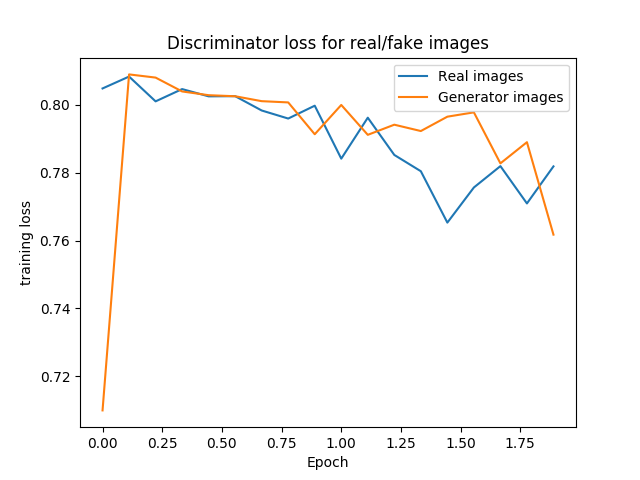
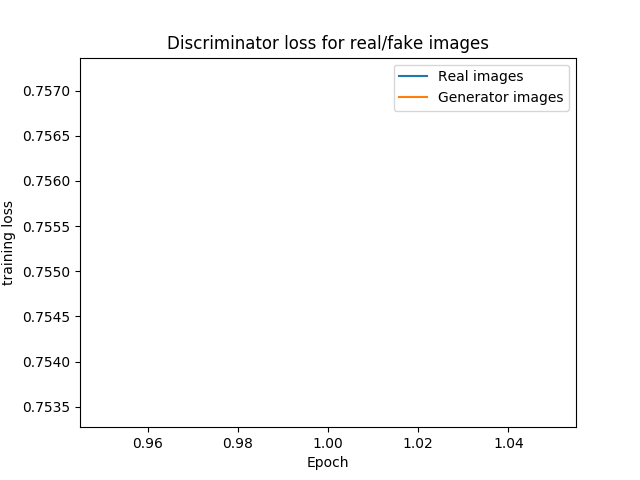
New run

diff --git a/log/dreyeve/debug/configuration.py b/log/dreyeve/debug/configuration.py
@@ -1,8 +1,8 @@
-# Training started at: 2018-12-02 10:30:43.464924
-# Training ended at: 2018-12-02 10:30:43.464924
-# Training duration: 0h 0m 31.25s
+# Training started at: 2018-12-09 17:55:16.329766
+# Training ended at: 2018-12-09 17:55:16.329766
+# Training duration: 0h 3m 45.15s
 # Training epochs: 2
-# Seconds per epoch: 12.504
+# Seconds per epoch: 82.541
 from pathlib import Path
 import datetime
 class Configuration(object):
@@ -43,11 +43,11 @@ class Configuration(object):
             self.hardcoded_architecture = None
             self.ae_n_conv_modules = 6 # number of conv. modules
             self.ae_n_conv_layers_per_module = 1 # number of conv. layers in each module (between each pool layer/dim reduction)
-            self.ae_n_dense_layers = 0 # number of dense layers in
-            self.ae_z_dim = 256
+            self.ae_n_dense_layers = 1 # number of dense layers in
+            self.ae_z_dim = 512
             self.ae_n_dense_units = self.ae_z_dim
             self.ae_filter_size = 4
-            self.ae_stride = 1
+            self.ae_stride = 1 # will be set to ae_pool_size if ae_max_pool is False
             self.ae_max_pool = False
             self.ae_pool_size = 2
             self.ae_first_layer_channels = 16
@@ -60,7 +60,7 @@ class Configuration(object):
             self.d_n_conv_modules = 6 # number of conv. modules
             self.d_n_conv_layers_per_module = 1 # number of conv. layers in each module (between each pool layer/dim reduction)
             self.d_n_dense_layers = 1 # number of dense layers in
-            self.d_z_dim = 256
+            self.d_z_dim = 512
             self.d_n_dense_units = 1
             self.d_filter_size = 4
             self.d_stride = 1
@@ -78,11 +78,12 @@ class Configuration(object):
             self.channels = 3
 
             # Train settings
+            self.data_divider = 1
             self.n_epochs = 100
-            self.n_train = 600
-            self.n_val = 50
-            self.n_test = 1200
-            self.n_test_in = 600
+            self.n_train = 6000//self.data_divider
+            self.n_val = 600//self.data_divider
+            self.n_test = 1200//self.data_divider
+            self.n_test_in = 600 // self.data_divider
             self.out_frac = (self.n_test-self.n_test_in)/self.n_test
             self.batch_size = 64
             self.num_checkpoints = 10
@@ -94,17 +95,17 @@ class Configuration(object):
             self.test_folder = "../weather_detection_data/dreyeve/sunny_highway_countryside_morning_evening_vs_rainy_highway_countryside_morning_evening/test/"
             self.test_in_folder =  self.test_folder + "in/"
             self.test_out_folder =  self.test_folder + "out/"
-        
-        elif self.dataset == "prosivic":
+
+        if self.dataset == "prosivic":
             self.hardcoded_architecture = None
             # Autoencoder architecture
             self.ae_n_conv_modules =  5 # number of conv. modules
             self.ae_n_conv_layers_per_module = 1 # number of conv. layers in each module (between each pool layer/dim reduction)
-            self.ae_n_dense_layers = 0 # number of dense layers in
-            self.ae_z_dim = 256
+            self.ae_n_dense_layers = 1 # number of dense layers in
+            self.ae_z_dim = 512
             self.ae_n_dense_units = self.ae_z_dim
             self.ae_filter_size = 4
-            self.ae_stride = 1
+            self.ae_stride = 1 # will be set to ae_pool_size automatically if ae_max_pool is False
             self.ae_max_pool = False
             self.ae_pool_size = 2
             self.ae_first_layer_channels = 16
@@ -117,7 +118,7 @@ class Configuration(object):
             self.d_n_conv_modules =  4 # number of conv. modules
             self.d_n_conv_layers_per_module = 1 # number of conv. layers in each module (between each pool layer/dim reduction)
             self.d_n_dense_layers = 1 # number of dense layers in
-            self.d_z_dim = 256
+            self.d_z_dim = 512
             self.d_n_dense_units = 1
             self.d_filter_size = 4
             self.d_stride = 1
@@ -131,19 +132,19 @@ class Configuration(object):
 
             # Train settings
             self.n_epochs = 1
-            self.n_train = 7000
-            self.n_val = 1400
-            self.n_test = 1000
-            self.n_test_in = 500
+            self.data_div = 1
+            self.n_train = 7000 // self.data_div
+            self.n_val = 1400 // self.data_div
+            self.n_test = 1000 // self.data_div
+            self.n_test_in = 500 // self.data_div
             self.out_frac = (self.n_test-self.n_test_in)/self.n_test
             self.batch_size = 64
-            self.num_checkpoints  = 25
+            self.num_checkpoints  = 10
 
             # Data format
             self.image_height = 256
             self.image_width = 256
             self.channels = 3
-            self.batch_size = 64
 
             # Data sources
             self.img_folder =   "../weather_detection_data/prosivic/"
@@ -175,9 +176,3 @@ class Configuration(object):
         self.model_dir = self.log_dir+'models/'
         self.train_dir = self.log_dir+'train/'
         self.test_dir = self.log_dir+'test/'
-Num outliers: 600
-Num inliers: 600
-################################################################
-# Test started at: 2018-12-02 10:31:17.525039
-#AUROC D()-score:	0.83838
-#AUPRC D()-score:	0.78547

diff --git a/models.py b/models.py
@@ -433,13 +433,11 @@ class ALOCC_Model():
 
         checkpoint_interval = max(epochs // self.cfg.num_checkpoints,1)
         epochs_duration = 0
+        batch_idxs = len(self.data) // batch_size
+
         for epoch in range(epochs):
             epoch_start_time = datetime.datetime.now()
             print('Epoch ({}/{})-----------------------------------------------------------------------'.format(epoch+1,epochs))
-            if self.dataset_name in ('mnist','prosivic','dreyeve'):
-                # Number of batches computed by total number of target data / batch size.
-                batch_idxs = len(self.data) // batch_size
-             
             for idx in range(0, batch_idxs):
                 # Get a batch of images and add random noise.
                 if self.dataset_name in ('mnist','prosivic','dreyeve'):
@@ -476,7 +474,7 @@ class ALOCC_Model():
                         #    './{}/train_{:02d}_{:04d}.png'.format(self.train_dir, epoch, idx))
                         #scipy.misc.imsave(self.train_dir+'train_%d_%d_samples.png'%(epoch,idx), montage(np.squeeze(samples))
                     scipy.misc.imsave('./{}{:02d}_{:04d}_reconstructions.jpg'.format(self.train_dir,epoch,idx), montage(np.squeeze(samples)))
-                    self.export_loss_plots()
+                    self.export_loss_plots(batch_idxs)
             # end of loop over batches
 
             # Save the checkpoint end of each epoch.
@@ -495,7 +493,7 @@ class ALOCC_Model():
 
         # Save the last version of the network
         self.save("final")
-        self.export_loss_plots()
+        self.export_loss_plots(batch_idxs)
 
 
 
@@ -535,14 +533,15 @@ class ALOCC_Model():
                 for line in infile.readlines():
                     outfile.write(line)
 
-    def export_loss_plots(self):
+    def export_loss_plots(self, point_interval):
         # Export the Generator/R network reconstruction losses as a plot.
+        plt.clf()
         plt.title('Generator/R network losses')
         #plt.title('Generator/R network reconstruction losses')
         plt.xlabel('Epoch')
         plt.ylabel('training loss')
         plt.grid()
-        plt.plot(self.plot_epochs,self.plot_g_recon_losses, label="Reconstruction loss")
+        plt.plot(self.plot_epochs[point_interval::point_interval],self.plot_g_recon_losses[point_interval::point_interval], label="Reconstruction loss")
         #plt.savefig(self.train_dir+'self.plot_g_recon_losses.png')
 
         # Export the Generator/R network validity losses as a plot.
@@ -550,7 +549,7 @@ class ALOCC_Model():
         plt.xlabel('Epoch')
         plt.ylabel('training loss')
         plt.grid()
-        plt.plot(self.plot_epochs,self.plot_g_val_losses, label="Validity loss")
+        plt.plot(self.plot_epochs[point_interval::point_interval],self.plot_g_val_losses[point_interval::point_interval], label="Validity loss")
 #        plt.savefig(self.train_dir+'self.plot_g_recon_losses.png')
         plt.legend()
         plt.savefig(self.train_dir+'plot_g_losses.png')
@@ -562,7 +561,7 @@ class ALOCC_Model():
         plt.xlabel('Epoch')
         plt.ylabel('training loss')
         plt.grid()
-        plt.plot(self.plot_epochs,self.plot_d_real_losses, label="Real images")
+        plt.plot(self.plot_epochs[point_interval::point_interval],self.plot_d_real_losses[point_interval::point_interval], label="Real images")
         #plt.savefig(self.train_dir+'self.plot_d_real_losses.png')
 
         #plt.clf()
@@ -571,7 +570,7 @@ class ALOCC_Model():
         plt.xlabel('Epoch')
         plt.ylabel('training loss')
         plt.grid()
-        plt.plot(self.plot_epochs,self.plot_d_fake_losses, label="Generator images")
+        plt.plot(self.plot_epochs[point_interval::point_interval],self.plot_d_fake_losses[point_interval::point_interval], label="Generator images")
         plt.legend()
         #plt.savefig(self.train_dir+'self.plot_d_fake_losses.png')
         plt.savefig(self.train_dir+'plot_d_losses.png')

diff --git a/configuration.py b/configuration.py
@@ -103,14 +103,14 @@ class Configuration(object):
             self.ae_stride = 1 # will be set to ae_pool_size automatically if ae_max_pool is False
             self.ae_max_pool = False
             self.ae_pool_size = 2
-            self.ae_first_layer_channels = 8
+            self.ae_first_layer_channels = 16
             self.ae_channels = [16 * 2**i for i in range(self.ae_n_conv_modules)] # TODO: replace number with ae_first_layer_channels
             self.ae_use_batch_norm = True
             self.ae_use_dropout = False
             self.ae_dropout_rate = 0.1
 
             # Discriminator architecture
-            self.d_n_conv_modules =  5 # number of conv. modules
+            self.d_n_conv_modules =  4 # number of conv. modules
             self.d_n_conv_layers_per_module = 1 # number of conv. layers in each module (between each pool layer/dim reduction)
             self.d_n_dense_layers = 1 # number of dense layers in
             self.d_z_dim = 512
@@ -119,8 +119,8 @@ class Configuration(object):
             self.d_stride = 1
             self.d_max_pool = False
             self.d_pool_size = 2
-            self.d_channels_first_layer = 16
-            self.d_channels = [16 * 2**i for i in range(self.d_n_conv_modules)] # TODO: replace number with d_channels_first_layer
+            self.d_channels_first_layer = 8
+            self.d_channels = [8 * 2**i for i in range(self.d_n_conv_modules)] # TODO: replace number with d_channels_first_layer
             self.d_use_batch_norm = True
             self.d_use_dropout = False
             self.d_dropout_rate = 0.1

diff --git a/log/dreyeve/first_real_experiment/configuration.py b/log/dreyeve/first_real_experiment/configuration.py
@@ -182,3 +182,27 @@ Num inliers: 600
 # Test started at: 2018-12-09 16:11:57.881078
 #AUROC D()-score:	0.66407
 #AUPRC D()-score:	0.66182
+Num outliers: 600
+Num inliers: 600
+################################################################
+# Test started at: 2018-12-09 18:34:05.598109
+#AUROC D()-score:	0.31128
+#AUPRC D()-score:	0.38277
+Num outliers: 600
+Num inliers: 600
+################################################################
+# Test started at: 2018-12-09 18:34:34.294122
+#AUROC D()-score:	0.63682
+#AUPRC D()-score:	0.64840
+Num outliers: 600
+Num inliers: 600
+################################################################
+# Test started at: 2018-12-09 18:34:55.214389
+#AUROC D()-score:	0.69859
+#AUPRC D()-score:	0.69248
+Num outliers: 600
+Num inliers: 600
+################################################################
+# Test started at: 2018-12-09 18:35:17.939287
+#AUROC D()-score:	0.29768
+#AUPRC D()-score:	0.39450

diff --git a/log/prosivic/common_ae_smaller_d/configuration.py b/log/prosivic/common_ae_smaller_d/configuration.py
@@ -1,0 +1,18 @@
+Num outliers: 500
+Num inliers: 500
+################################################################
+# Test started at: 2018-12-09 18:31:40.094794
+#AUROC D()-score:	1.00000
+#AUPRC D()-score:	1.00000
+Num outliers: 500
+Num inliers: 500
+################################################################
+# Test started at: 2018-12-09 18:32:18.360554
+#AUROC D()-score:	0.00000
+#AUPRC D()-score:	0.30685
+Num outliers: 500
+Num inliers: 500
+################################################################
+# Test started at: 2018-12-09 18:32:39.426000
+#AUROC D()-score:	0.50000
+#AUPRC D()-score:	0.75000
